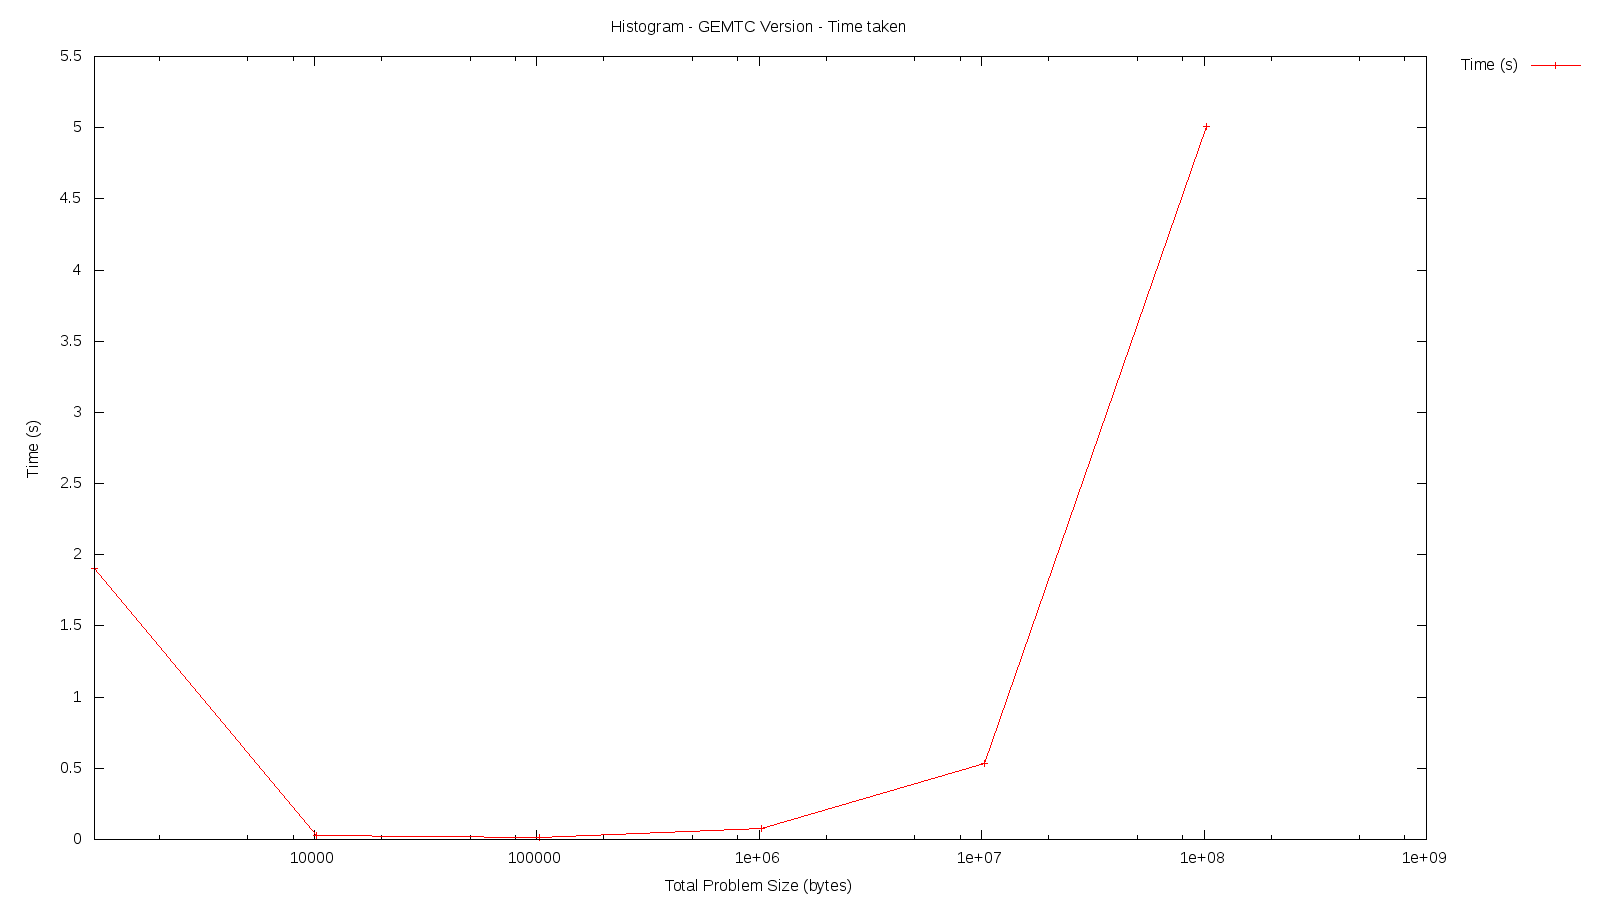
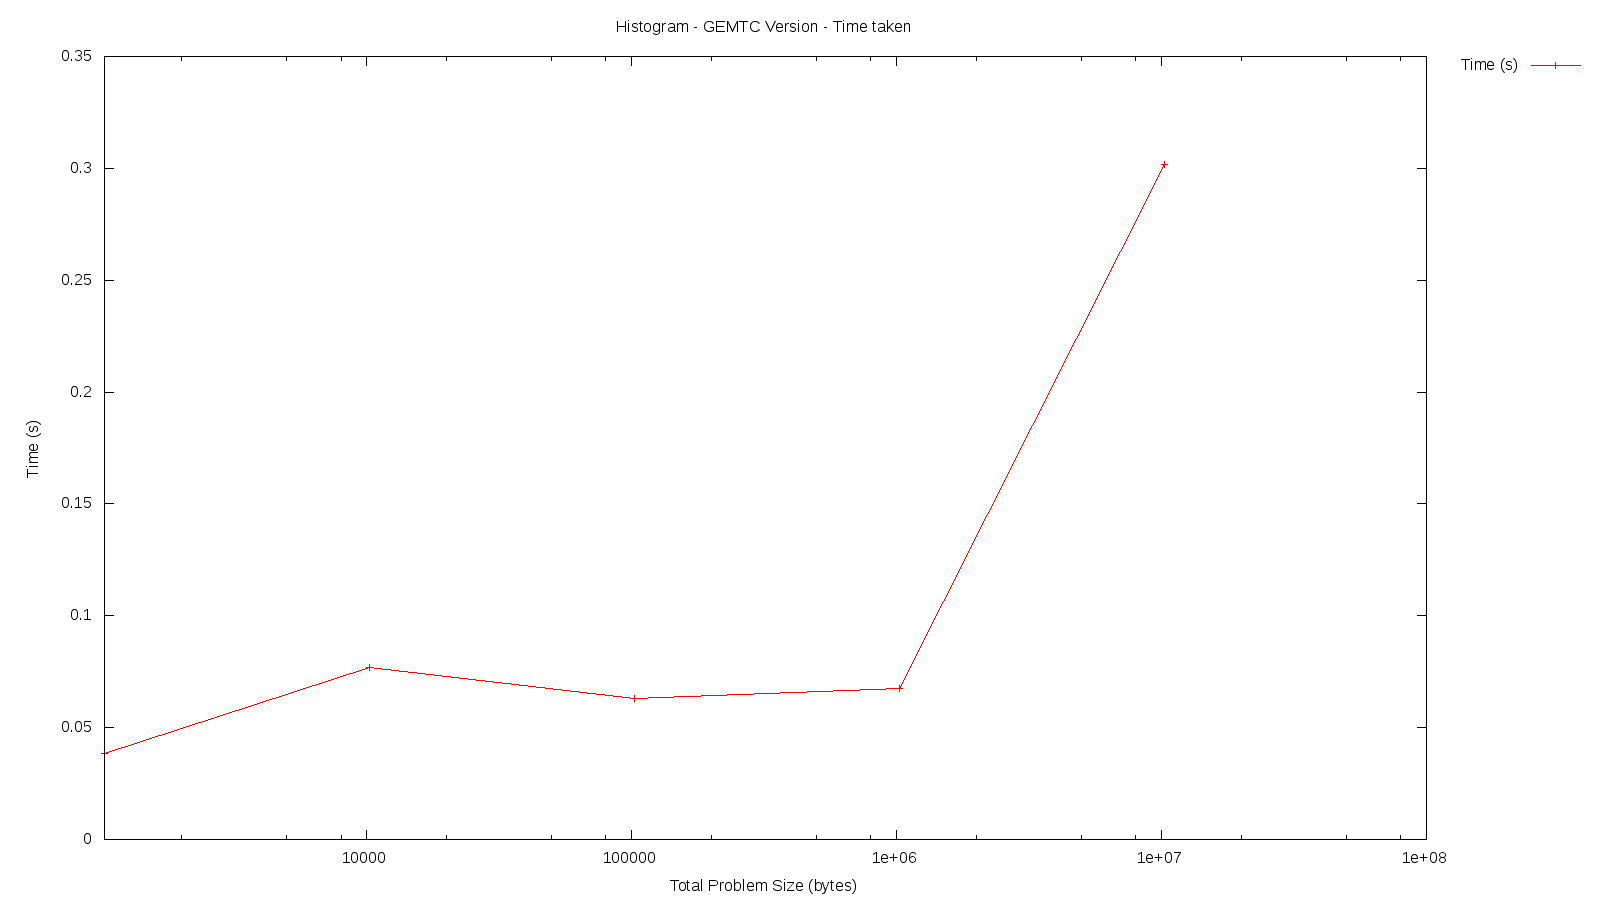
included more runs for throughput and added cpu version

diff --git a/debunk/hist/cpu/histogram.c b/debunk/hist/cpu/histogram.c
@@ -1,0 +1,53 @@
+#include <stdio.h>
+#include <stdlib.h>
+#include <sys/time.h>
+#define BIN_COUNT 256
+#define NUM_RUNS 6 
+
+void print(unsigned int *histo){
+int i;
+for(i=0;i<BIN_COUNT;i++){
+printf("%d\t",histo[i]);
+}
+}
+
+int main(int argc, char *argv[])
+{
+ unsigned char * h_data;
+ unsigned int h_histogram[BIN_COUNT];
+ unsigned char * d_data;
+ unsigned int * d_histogram;
+ unsigned int byteCount = 1024;
+ size_t size; 
+ struct timeval tim;
+ double t1,t2;
+ int iter, i;
+ for(iter =0 ; iter< NUM_RUNS;iter++){
+ srand (2009);
+ size = sizeof(unsigned char) * byteCount;
+ h_data = (unsigned char *) malloc(sizeof(unsigned char) * byteCount);
+ for (i = 0; i < byteCount; i++)
+ {
+        h_data[i] = rand() % 256;
+ }
+ gettimeofday(&tim, NULL);
+ t1=tim.tv_sec+(tim.tv_usec/1000000.0);
+ int j,k;
+ for(j=0; j < 10; j++) {
+ 	for(k=0;k<size;k++){
+	h_histogram[h_data[i]]++;
+	}
+ }
+  gettimeofday(&tim, NULL);
+  t2=tim.tv_sec+(tim.tv_usec/1000000.0);
+ free(h_data); 
+ double dAvgSecs = (t2-t1) / 10.0;
+ printf("%u\t%.4f\t%.5f\n",
+                        byteCount,(1.0e-6 * (double)byteCount / dAvgSecs), dAvgSecs);
+ byteCount = byteCount * 10;
+ 
+ }
+// Print timing information
+
+}
+
